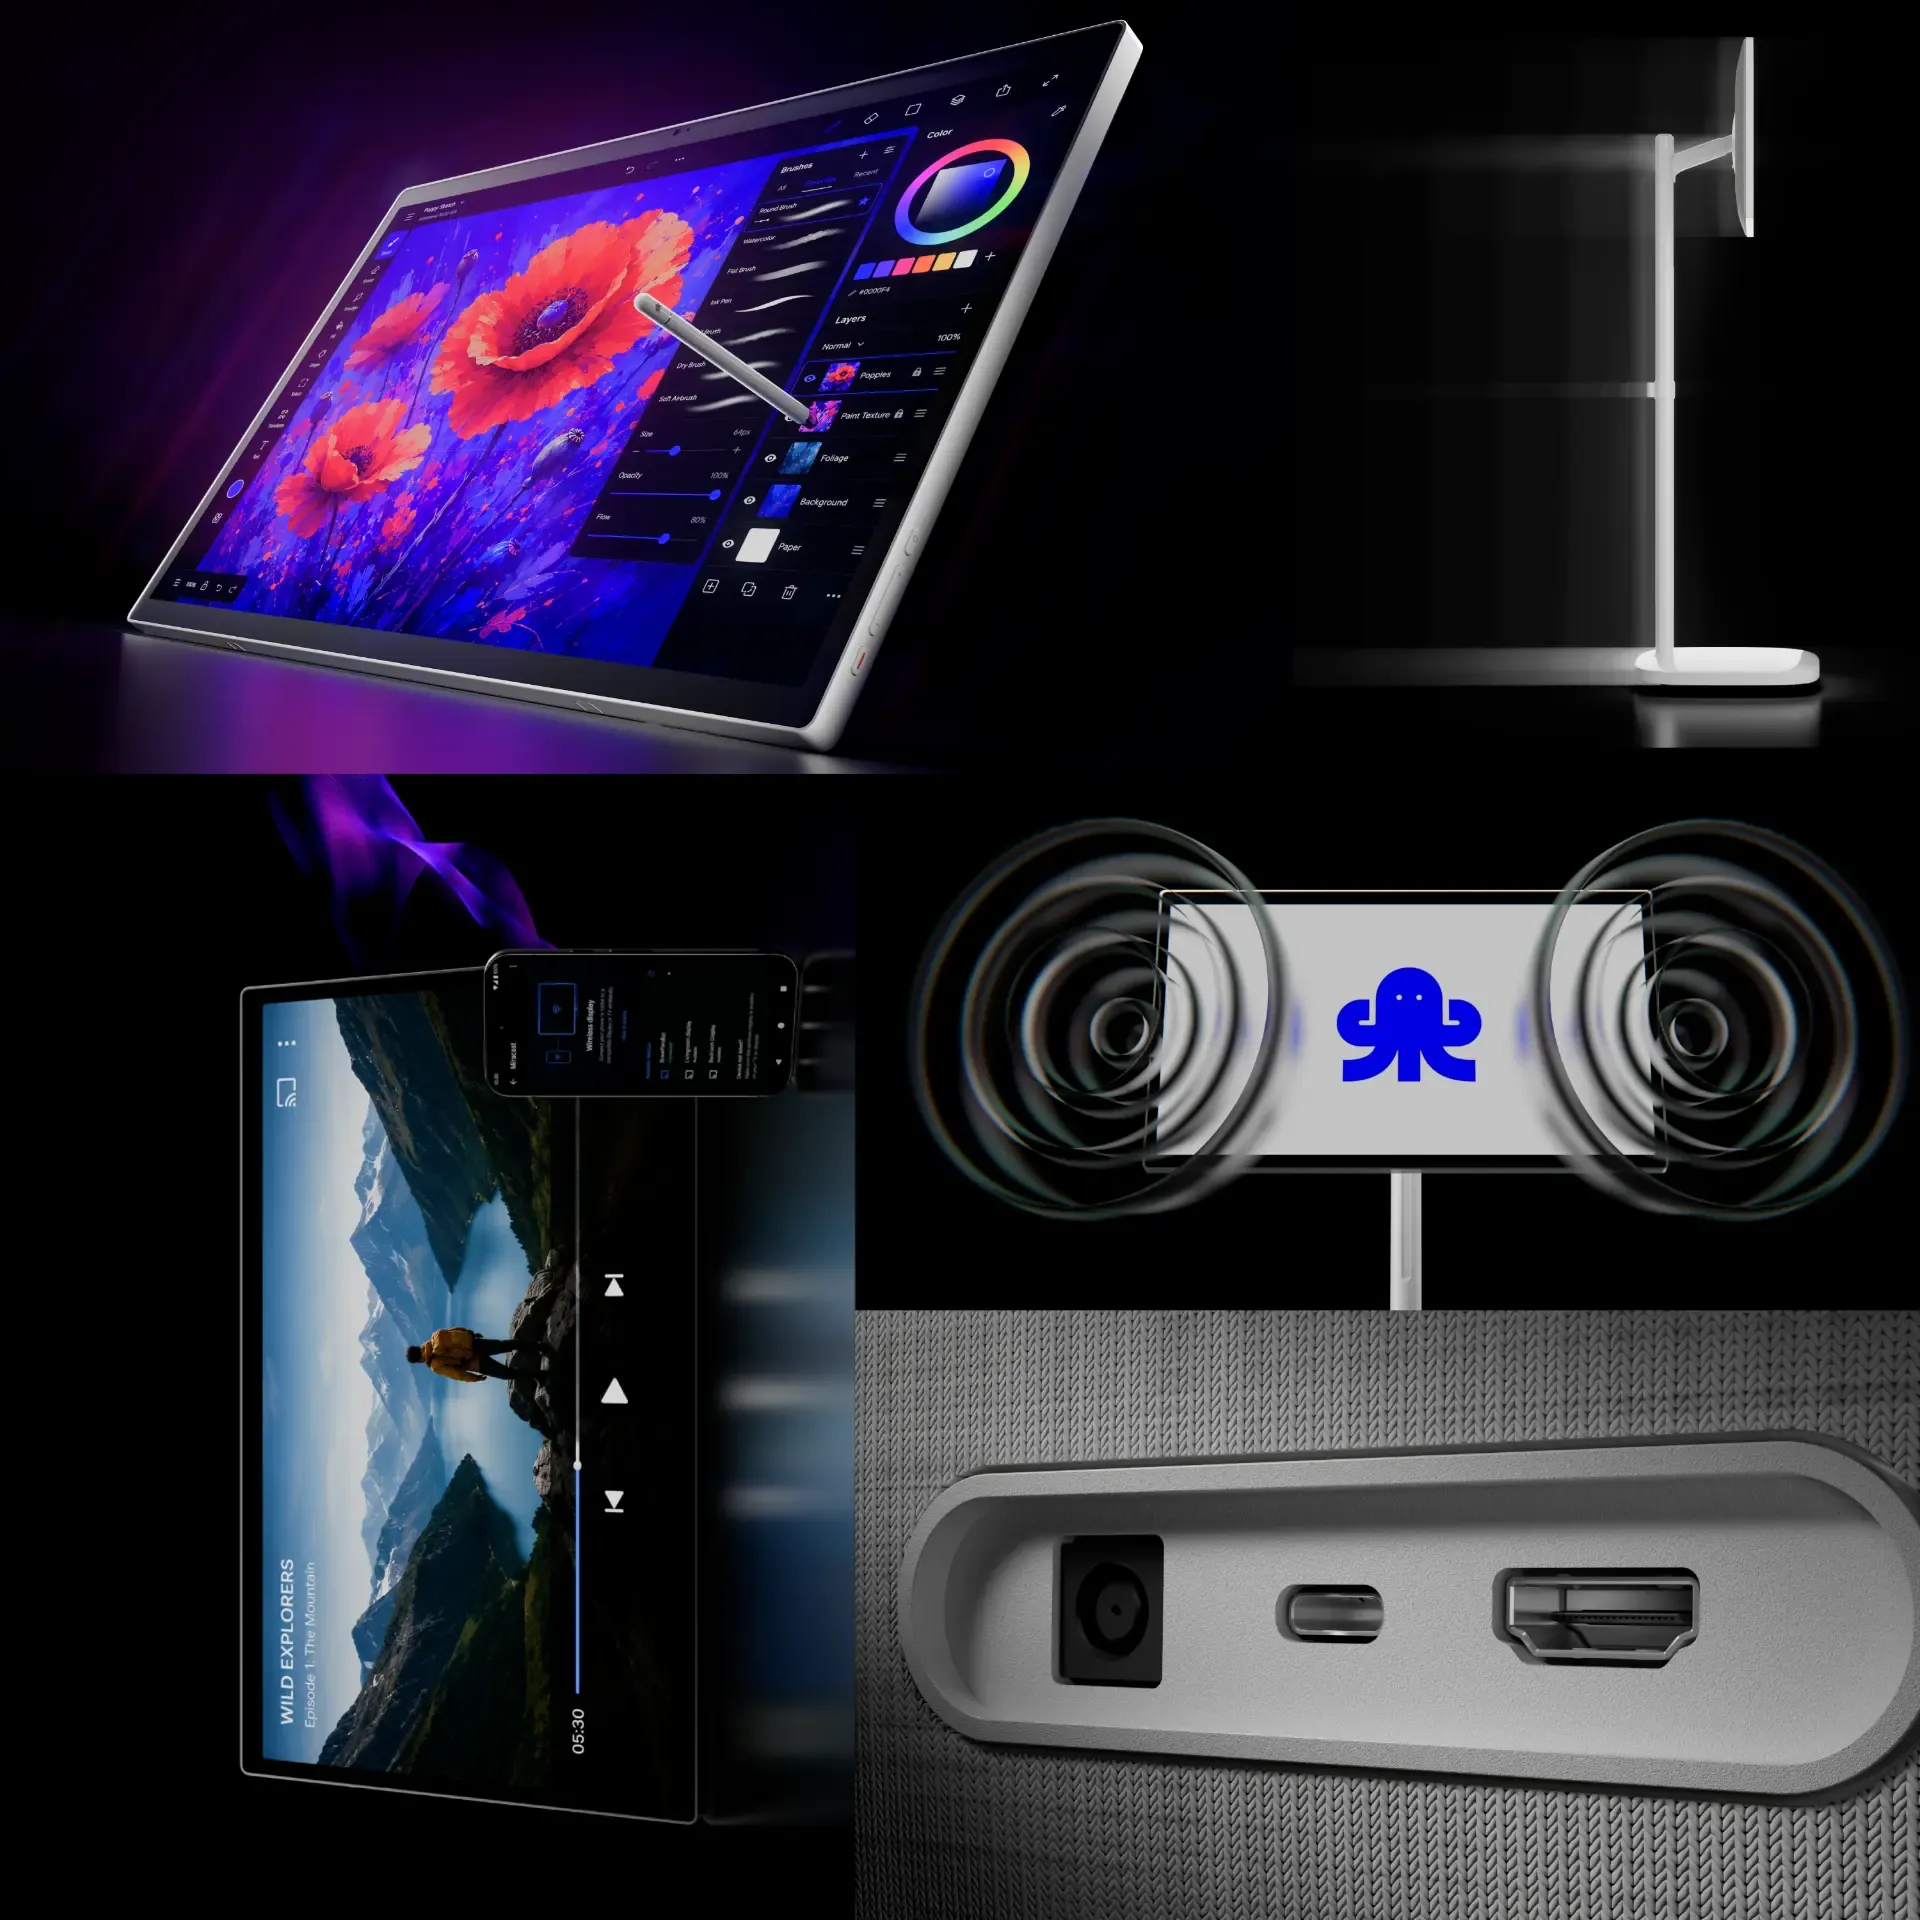
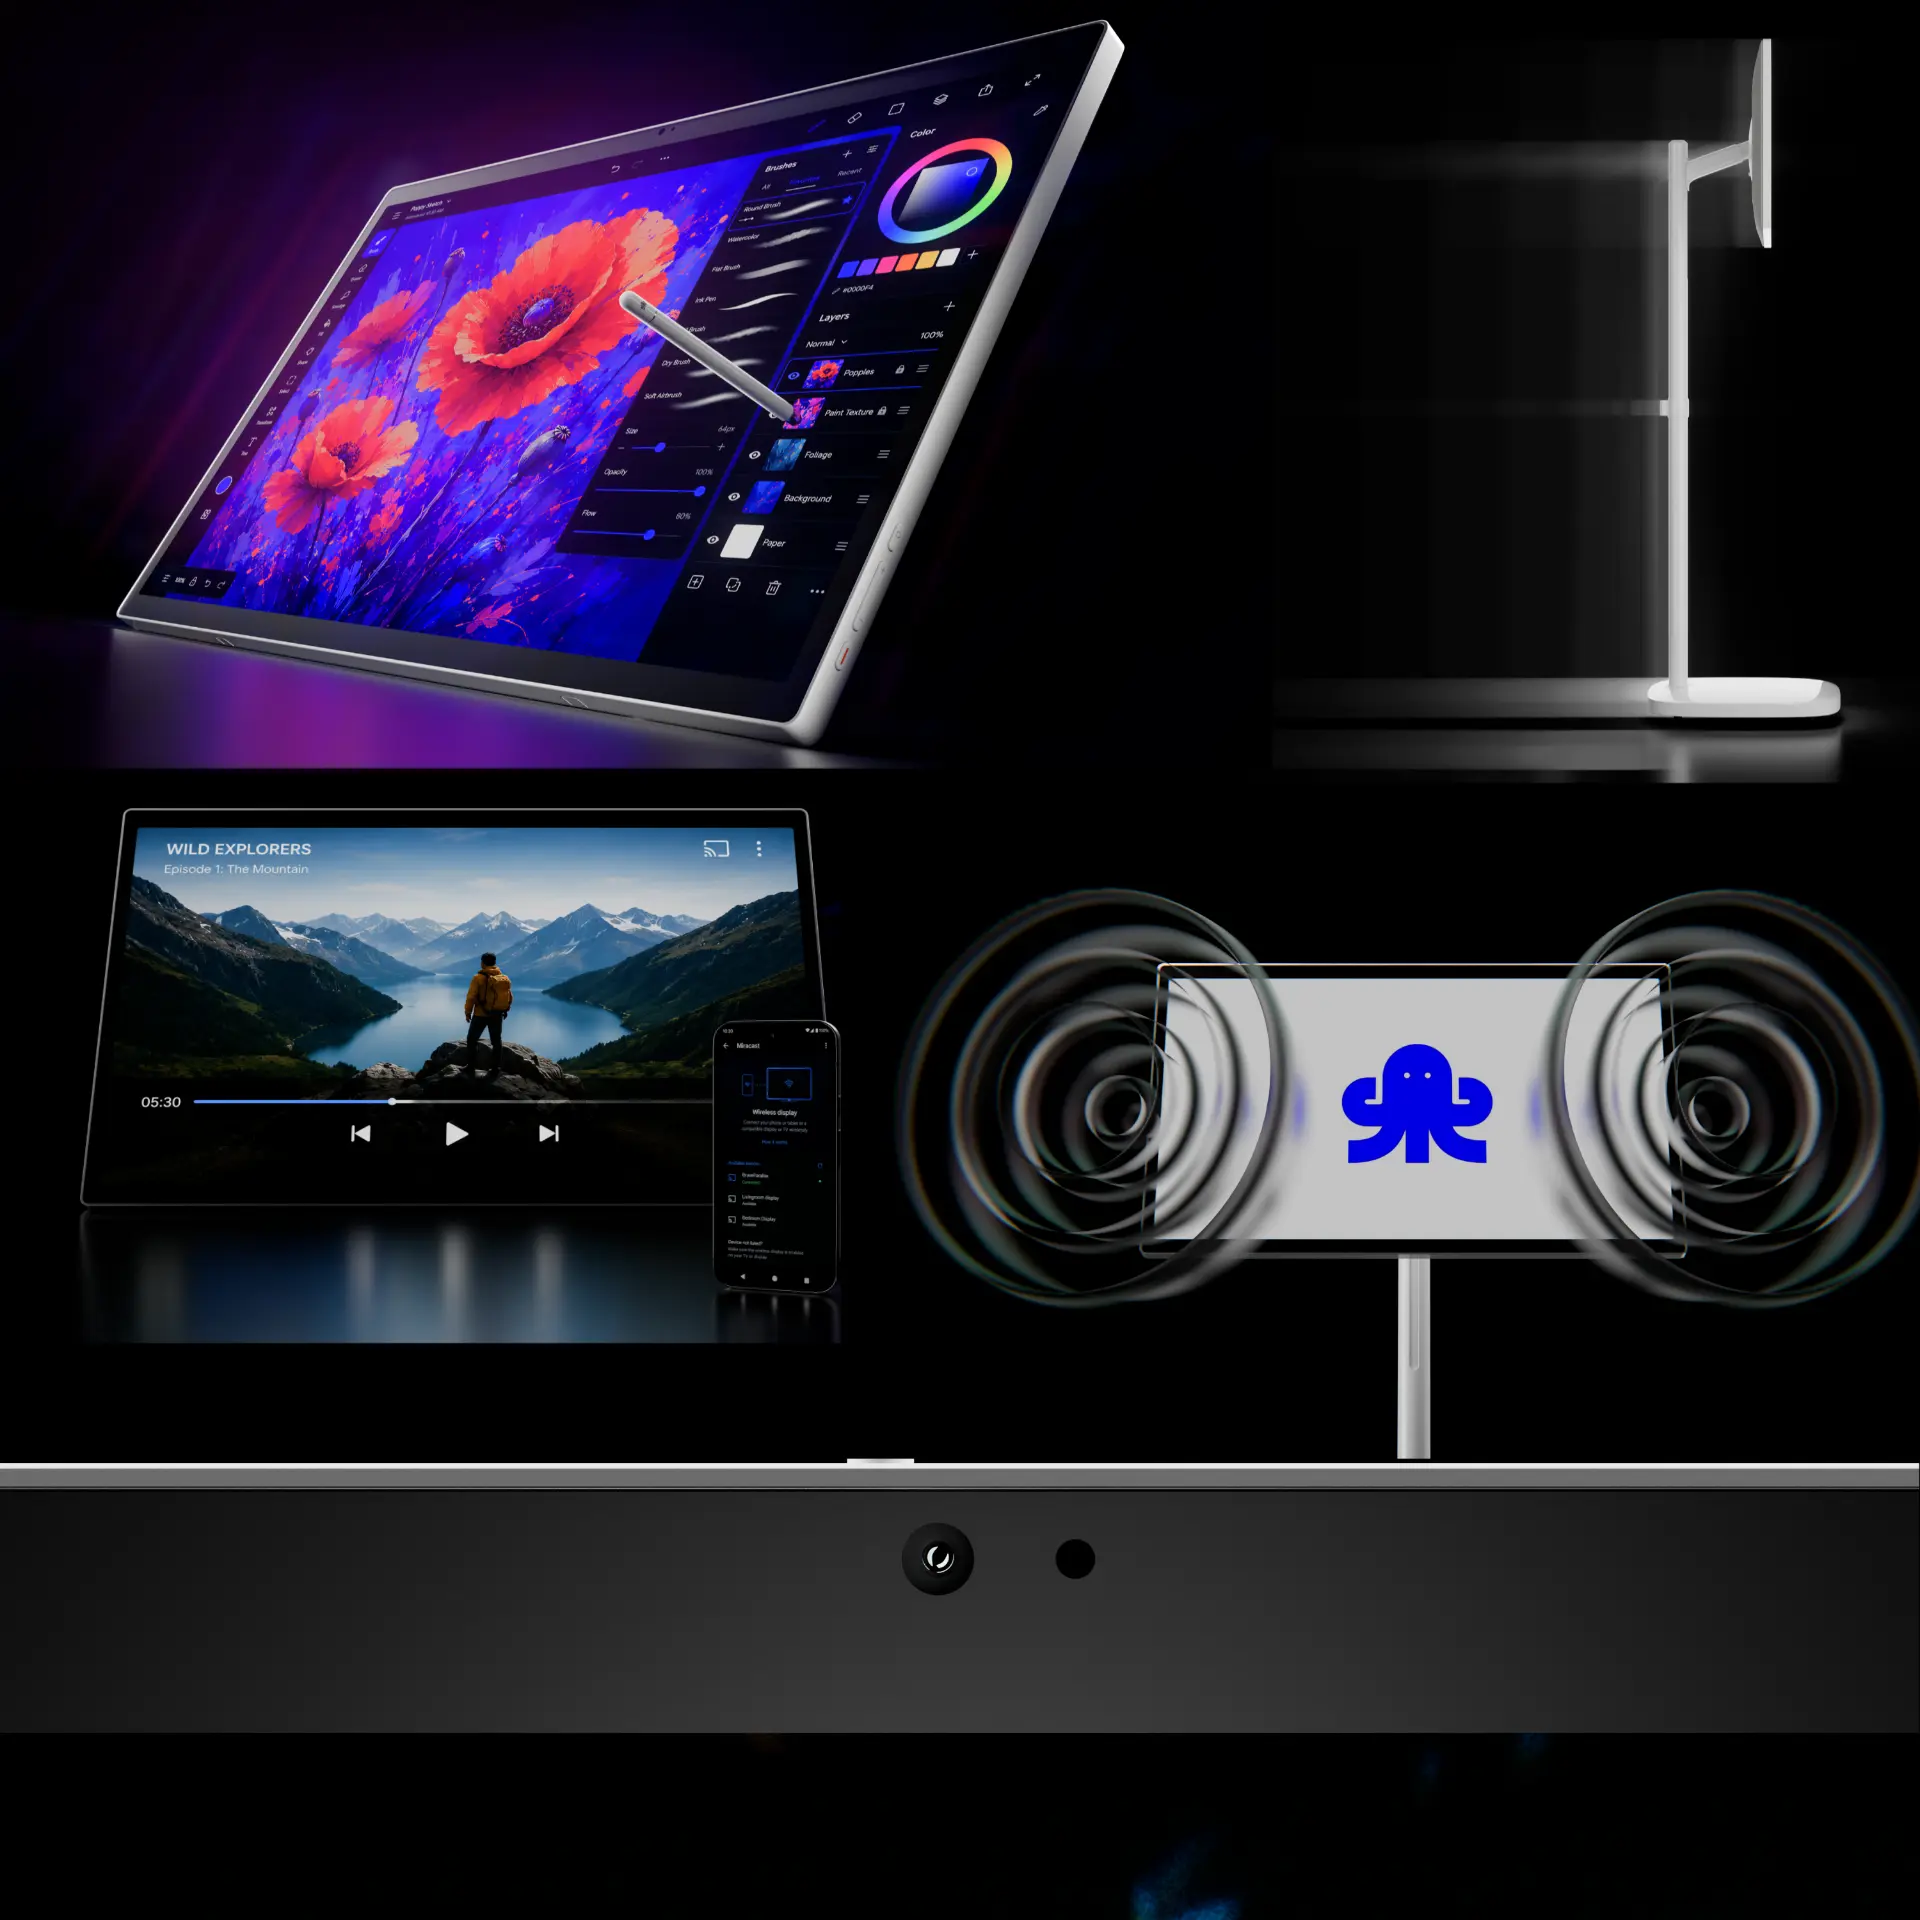
Update Brave Parallax PDP image with new composite

diff --git a/src/components/service-showcase.tsx b/src/components/service-showcase.tsx
@@ -17,7 +17,7 @@ import type { ShowcaseService } from "@/lib/services";
 const pdpImages = [
   { asset: pdpCaldigitDock, aspect: 16 / 9, alt: "Silver CalDigit docking station with USB-C and SD card ports on a reflective surface", caption: "CalDigit dock" },
   { asset: pdpHyphenSerum, aspect: 1, alt: "Four views of the Hyphen Power Peptides Cocktail Serum bottle with a lavender cap and blue serum, styled with glass beakers, test tubes and gel cubes", caption: "Hyphen serum" },
-  { asset: pdpBraveParallax, aspect: 1, alt: "Brave Parallax smart display in five views: a stylus painting app with red poppies, a height-adjustable stand profile, portrait video playback mirrored from a phone, stereo sound waves and a close-up of the port panel", caption: "Brave Parallax", tag: "3D Product PDP" },
+  { asset: pdpBraveParallax, aspect: 1, alt: "Brave Parallax smart display in five views: a stylus painting app with red poppies, a height-adjustable stand profile, wireless video casting from a phone, stereo sound waves and a close-up of the front camera bezel", caption: "Brave Parallax", tag: "3D Product PDP" },
   { asset: pdpEarbudsDark, aspect: 16 / 9, alt: "Transparent wireless earbuds floating over a dark blue surface with water droplets", caption: "Visual RnD#2", tag: "3D Product render" },
   { asset: pdpEarbudsPixel, aspect: 16 / 9, alt: "Transparent wireless earbuds dissolving into pixels on a white background", caption: "Visual RnD#1", tag: "3D Product render" },
   { asset: pdpMieleWineCooler, aspect: 1, alt: "Miele under-counter wine cooler shown from four angles with blue interior lighting and bottles on the shelves", caption: "Miele wine cooler", tag: "3D Product PDP" },
